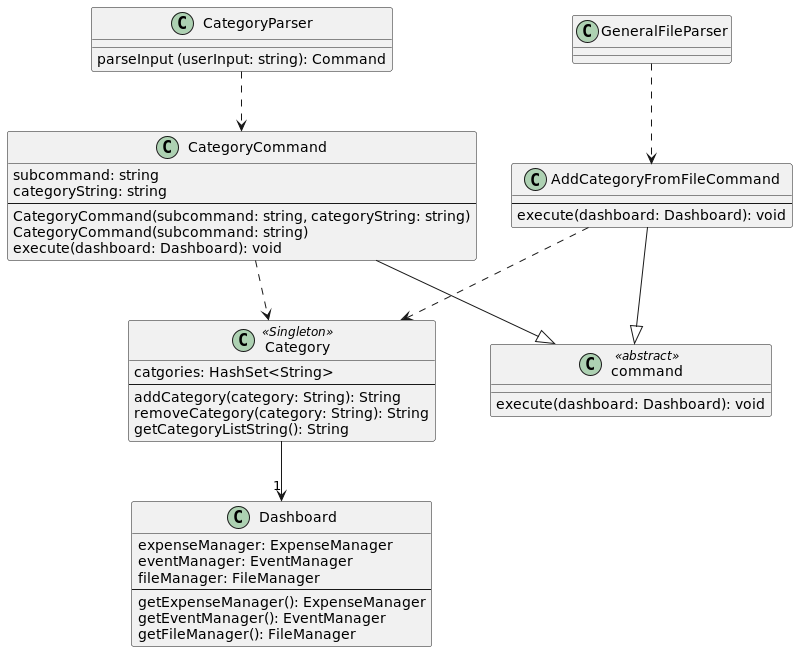
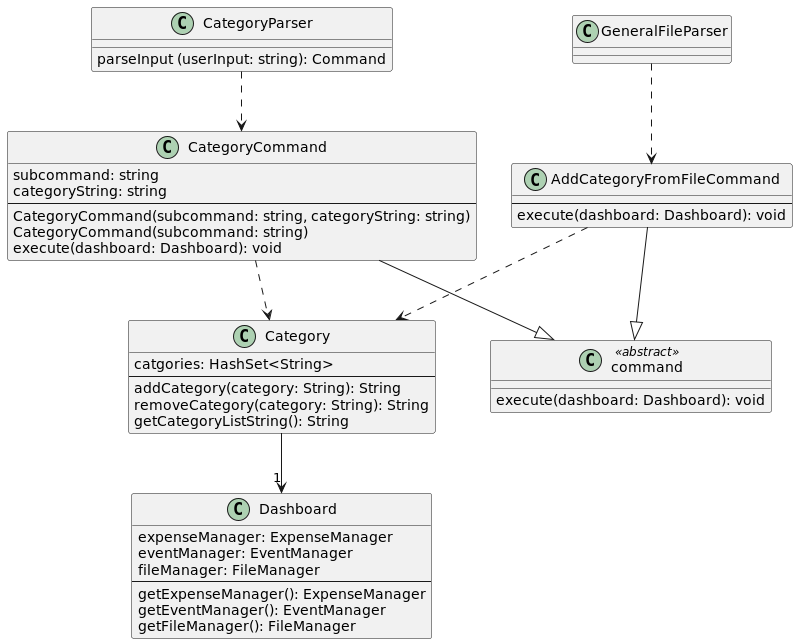
Update UG, DG, Add Tests Add tests for Catergory class, add initial UG for category, change UML diagram for DG

diff --git a/src/test/java/brokeculator/enumerators/CategoryTest.java b/src/test/java/brokeculator/enumerators/CategoryTest.java
@@ -1,0 +1,66 @@
+package brokeculator.enumerators;
+
+import brokeculator.dashboard.Dashboard;
+import brokeculator.event.EventManager;
+import brokeculator.expense.Expense;
+import brokeculator.expense.ExpenseManager;
+import brokeculator.storage.FileManager;
+import org.junit.jupiter.api.Test;
+import static org.junit.jupiter.api.Assertions.assertEquals;
+
+public class CategoryTest {
+    @Test
+    public void addCategory_singleWordString_expectAddString() {
+        String categoryString = "test1";
+        String feedback = Category.addCategory(categoryString);
+        assertEquals("Category added: " + categoryString.toUpperCase(), feedback);
+    }
+    @Test
+    public void addCategory_existingCategory_expectExistingString() {
+        String categoryString1 = "test1 test2 test3";
+        String categoryString2 = "test1 test2 test3";
+        Category.addCategory(categoryString1);
+        String feedback = Category.addCategory(categoryString2);
+        assertEquals("Category already exists", feedback);
+    }
+    @Test
+    public void addCategory_multipleWordString_expectAddString() {
+        String categoryString = "test1 test2 test3";
+        String feedback = Category.addCategory(categoryString);
+        assertEquals("Category added: " + categoryString.toUpperCase(), feedback);
+    }
+    @Test
+    public void removeCategory_singleWordStringNoExpenses_expectRemoveString() {
+        ExpenseManager expenseManager = new ExpenseManager();
+        EventManager eventManager = EventManager.getInstance();
+        FileManager fileManager = new FileManager();
+        Category.setDashboard(new Dashboard(expenseManager, fileManager, eventManager));
+        String categoryString = "test1";
+        Category.addCategory(categoryString);
+        String feedback = Category.removeCategory(categoryString);
+        assertEquals("Category removed: " + categoryString.toUpperCase(), feedback);
+    }
+    @Test
+    public void removeCategory_multipleWordStringNoExpenses_expectRemoveString() {
+        ExpenseManager expenseManager = new ExpenseManager();
+        EventManager eventManager = EventManager.getInstance();
+        FileManager fileManager = new FileManager();
+        Category.setDashboard(new Dashboard(expenseManager, fileManager, eventManager));
+        String categoryString = "test1 test2 test3";
+        Category.addCategory(categoryString);
+        String feedback = Category.removeCategory(categoryString);
+        assertEquals("Category removed: " + categoryString.toUpperCase(), feedback);
+    }
+    @Test
+    public void removeCategory_multipleWordStringExistingExpenses_expectFailureString() {
+        ExpenseManager expenseManager = new ExpenseManager();
+        EventManager eventManager = EventManager.getInstance();
+        FileManager fileManager = new FileManager();
+        Category.setDashboard(new Dashboard(expenseManager, fileManager, eventManager));
+        String categoryString = "test1 test2 test3";
+        Category.addCategory(categoryString);
+        expenseManager.add(new Expense("test", 1.0, "date", "test1 test2 test3"));
+        String feedback = Category.removeCategory(categoryString);
+        assertEquals("Cannot remove category that is in use", feedback);
+    }
+}

diff --git a/src/main/java/brokeculator/parser/CategoryParser.java b/src/main/java/brokeculator/parser/CategoryParser.java
@@ -16,19 +16,21 @@ public class CategoryParser {
             return new InvalidCommand("Please specify a subcommand." + System.lineSeparator()
                     + "Format: category <subcommand: list|add|delete> <string_value>");
         }
-        boolean validAddSubcommand = userInputAsArray[SUBCOMMAND_INDEX].equals("add") && userInputAsArray.length > 2;
-        boolean validDeleteSubcommand = userInputAsArray[SUBCOMMAND_INDEX].equals("delete")
-                                        && userInputAsArray.length > 2;
-        boolean validListSubcommand = userInputAsArray[SUBCOMMAND_INDEX].equals("list") && userInputAsArray.length == 2;
-        if (validAddSubcommand) {
+        boolean isAddSubcommand = userInputAsArray[SUBCOMMAND_INDEX].equals(ADD_SUBCOMMAND)
+                                  && userInputAsArray.length > 2;
+        boolean isDeleteSubcommand = userInputAsArray[SUBCOMMAND_INDEX].equals(DELETE_SUBCOMMAND)
+                                     && userInputAsArray.length > 2;
+        boolean isListSubcommand = userInputAsArray[SUBCOMMAND_INDEX].equals(LIST_SUBCOMMAND)
+                                   && userInputAsArray.length == 2;
+        if (isAddSubcommand) {
             int addFieldBeginIndex = userInput.indexOf(ADD_SUBCOMMAND) + ADD_SUBCOMMAND.length();
             return new CategoryCommand(ADD_SUBCOMMAND, userInput.substring(addFieldBeginIndex).trim());
         }
-        if (validDeleteSubcommand) {
+        if (isDeleteSubcommand) {
             int deleteFieldBeginIndex = userInput.indexOf(DELETE_SUBCOMMAND) + DELETE_SUBCOMMAND.length();
             return new CategoryCommand(DELETE_SUBCOMMAND, userInput.substring(deleteFieldBeginIndex).trim());
         }
-        if (validListSubcommand) {
+        if (isListSubcommand) {
             return new CategoryCommand(LIST_SUBCOMMAND);
         }
         return new InvalidCommand("Invalid category command");

diff --git a/src/main/java/brokeculator/enumerators/Category.java b/src/main/java/brokeculator/enumerators/Category.java
@@ -12,6 +12,7 @@ import java.util.Set;
 
 public class Category {
     private static final int LIST_ALL_EXPENSES = -1;
+    private static final String DASH = "- ";
     private static Dashboard dashboard;
     private static boolean isDashboardSet = false;
     private static Set<String> categories = new HashSet<>();
@@ -21,10 +22,11 @@ public class Category {
         Category.dashboard = dashboard;
     }
     public static String addCategory(String category) {
-        if (categories.contains(category.toUpperCase())) {
+        category = category.toUpperCase();
+        if (categories.contains(category)) {
             return "Category already exists";
         }
-        categories.add(category.toUpperCase());
+        categories.add(category);
         return "Category added: " + category;
     }
     public static ArrayList<String> getCategoryList() {
@@ -34,6 +36,7 @@ public class Category {
         return categories.contains(category);
     }
     public static String removeCategory(String category) {
+        category = category.toUpperCase();
         if (isCategoryUsed(category)) {
             return "Cannot remove category that is in use";
         }
@@ -59,7 +62,7 @@ public class Category {
     public static String getCategoryListString() {
         StringBuilder sb = new StringBuilder();
         for (String category : categories) {
-            sb.append("- ").append(category).append(System.lineSeparator());
+            sb.append(DASH).append(category).append(System.lineSeparator());
         }
         return sb.toString();
     }

diff --git a/src/main/java/brokeculator/parser/AddParser.java b/src/main/java/brokeculator/parser/AddParser.java
@@ -14,7 +14,6 @@ public class AddParser {
     public static final int DESCRIPTION_INDEX = 1;
     public static final int AMOUNT_INDEX = 2;
     public static final int CATEGORY_INDEX = 3;
-    public static final String DEFAULT_EXPENSE_CATEGORY = "null";
     public static final String AMOUNT_PATTERN = "^\\d+(\\.\\d+)?$";
     public static Command parseInput(String userInput) {
         if(!isOptionsPresent(userInput) || !isOptionsAppearOnce(userInput)) {
@@ -63,16 +62,16 @@ public class AddParser {
     }
     private static String getOptionField(String[] userInputArray, String option) {
         StringBuilder optionField = new StringBuilder();
-        boolean startAppending = false;
+        boolean shouldAppend = false;
         for (String s : userInputArray) {
             if (s.equals(option.trim())) {
-                startAppending = true;
+                shouldAppend = true;
                 continue;
             }
-            if (isWordOption(s) && startAppending) {
+            if (isWordOption(s) && shouldAppend) {
                 return optionField.toString().trim();
             }
-            if (startAppending) {
+            if (shouldAppend) {
                 optionField.append(s).append(" ");
             }
         }

diff --git a/src/main/java/brokeculator/parser/ListParser.java b/src/main/java/brokeculator/parser/ListParser.java
@@ -10,13 +10,11 @@ public class ListParser {
         String[] userInputAsArray = userInput.split(" ");
         int amountToList = 0;
         if (userInputAsArray.length == 1) {
-            // amountToList set to a value that indicates all expenses should be printed
             amountToList = LIST_ALL_EXPENSES;
         } else {
             try {
                 amountToList = Integer.parseInt(userInputAsArray[1]);
             } catch (NumberFormatException e) {
-                // amountToList set to a value that indicates all expenses should be printed
                 return new InvalidCommand("Invalid integer for list command.");
             }
         }

diff --git a/docs/UserGuide.md b/docs/UserGuide.md
@@ -14,7 +14,29 @@
 ## Features 
 
 {Give detailed description of each feature}
-
+### 1. Handle categories: category
+#### **_SYNOPSIS_**
+```dtd    
+category [add|list|delete] [category_name]
+```
+#### **_DESCRIPTION_**
+Main command to handle categories. Add 
+and delete should be accompanied by category name. List will list all categories.
+When deleting a category, all expenses using that category must be deleted first.
+The category specified in `add` and `delete` will be converted to uppercase.
+#### **_USAGE_**
+Example of adding category: <br>
+```dtd
+category add test1
+```
+Example of deleting category: <br>
+```dtd
+category delete test2
+```
+Example of listing categories: <br>
+```dtd
+category list
+```
 ### Adding a todo: `todo`
 Adds a new item to the list of todo items.
 

diff --git a/docs/DeveloperGuide.md b/docs/DeveloperGuide.md
@@ -65,6 +65,9 @@ This is facilitated by the `FileManager` and `GeneralFileParser` classes, with t
 The `GeneralFileParser` class reads the file and returns a list of strings.
 The process is shown in the sequence diagram below:
 ![category_load_sequence.png](images/category_load_sequence.png)
+In addition, at program initialisation, the function `setDashboard(dashboard: Dashboard)`
+is called to set the dashboard object in the `Category` class.
+This is to allow the `Category` class to access the `ExpenseManager` object stored in the `Dashboard` object.
 
 # Summarising expenses
 **Implementation** </br>
